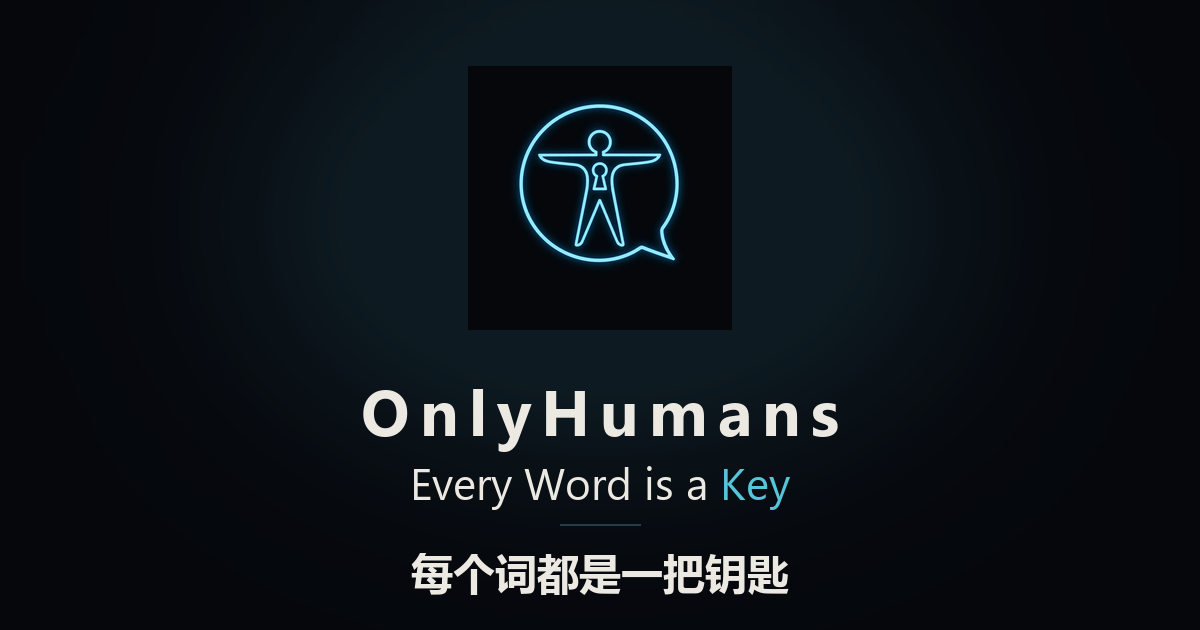
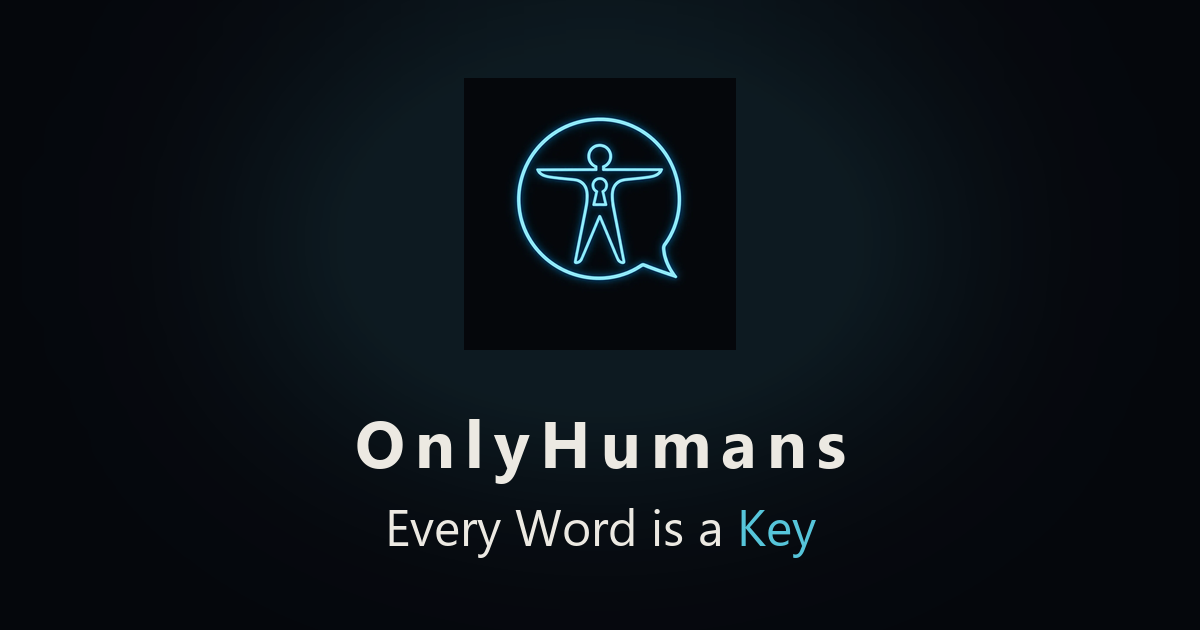
per-language OG cards: og-image.png (EN, Key in cyan) + og-image-zh.png (每个词都是一把钥匙, 钥匙 in cyan); landing i18n swap now rewrites og:image + twitter:image (T key og.image), refs bumped ?v=3; og-image-zh gets the 7d cache header; no bundle change

Changed region(s): [[0.2775, 0.6032, 0.7092, 0.9651], [0.4008, 0.1508, 0.5858, 0.4524]]

diff --git a/index.html b/index.html
@@ -12,12 +12,12 @@
 <meta property="og:site_name" content="OnlyHumans">
 <meta property="og:title" content="OnlyHumans — Every Word is a Key">
 <meta property="og:description" content="Private chat in your browser — no accounts, no servers reading your words.">
-<meta property="og:image" content="https://onlyhumans.deepflux.space/og-image.png?v=2">
+<meta property="og:image" content="https://onlyhumans.deepflux.space/og-image.png?v=3">
 <meta property="og:image:width" content="1200">
 <meta property="og:image:height" content="630">
 <meta property="og:image:alt" content="OnlyHumans — private chat rooms in any browser. Every word is a key.">
 <meta name="twitter:card" content="summary_large_image">
-<meta name="twitter:image" content="https://onlyhumans.deepflux.space/og-image.png?v=2">
+<meta name="twitter:image" content="https://onlyhumans.deepflux.space/og-image.png?v=3">
 <link rel="icon" type="image/png" sizes="32px" href="/favicon-32.png?v=2">
 <link rel="apple-touch-icon" href="/icon-256.png?v=2">
 <script type="application/ld+json">
@@ -492,13 +492,16 @@
       "doc.title": ["OnlyHumans — Every Word is a Key", "OnlyHumans — 每个词都是一把钥匙"],
       "meta.desc": ["Private chat without accounts. Choose a name and a shared word — end-to-end encrypted, in any browser. The word never leaves your device.", "无需账号的私密聊天。选一个名字，共享一个词——端到端加密，任何浏览器都行。这个词永远不会离开你的设备。"],
       "og.desc": ["Private chat in your browser — no accounts, no servers reading your words.", "在浏览器里私密聊天——无账号，服务器读不到你说的任何一句话。"],
-      "og.alt": ["OnlyHumans — private chat rooms in any browser. Every word is a key.", "OnlyHumans——任何浏览器里的私密聊天室。每个词都是一把钥匙。"]
+      "og.alt": ["OnlyHumans — private chat rooms in any browser. Every word is a key.", "OnlyHumans——任何浏览器里的私密聊天室。每个词都是一把钥匙。"],
+      "og.image": ["https://onlyhumans.deepflux.space/og-image.png?v=3", "https://onlyhumans.deepflux.space/og-image-zh.png"]
     };
     var META = [
       ["meta[name=description]", "meta.desc", "content"],
       ['meta[property="og:title"]', "doc.title", "content"],
       ['meta[property="og:description"]', "og.desc", "content"],
-      ['meta[property="og:image:alt"]', "og.alt", "content"]
+      ['meta[property="og:image:alt"]', "og.alt", "content"],
+      ['meta[property="og:image"]', "og.image", "content"],
+      ['meta[name="twitter:image"]', "og.image", "content"]
     ];
 
     var LANG = "en";

diff --git a/join.html b/join.html
@@ -13,12 +13,12 @@
 <meta property="og:site_name" content="OnlyHumans">
 <meta property="og:title" content="OnlyHumans — Every Word is a Key">
 <meta property="og:description" content="Type your own word and only your people can find you. Sealed end-to-end — no accounts, no servers reading your words.">
-<meta property="og:image" content="https://onlyhumans.deepflux.space/og-image.png?v=2">
+<meta property="og:image" content="https://onlyhumans.deepflux.space/og-image.png?v=3">
 <meta property="og:image:width" content="1200">
 <meta property="og:image:height" content="630">
 <meta property="og:image:alt" content="OnlyHumans — private chat rooms in any browser. Every word is a key.">
 <meta name="twitter:card" content="summary_large_image">
-<meta name="twitter:image" content="https://onlyhumans.deepflux.space/og-image.png?v=2">
+<meta name="twitter:image" content="https://onlyhumans.deepflux.space/og-image.png?v=3">
 <link rel="preload" as="script" href="/join-assets/portal-HNXNL4LE.js">
 <style>
   /* Design system adopted from the desktop app (src/app.css) so the
